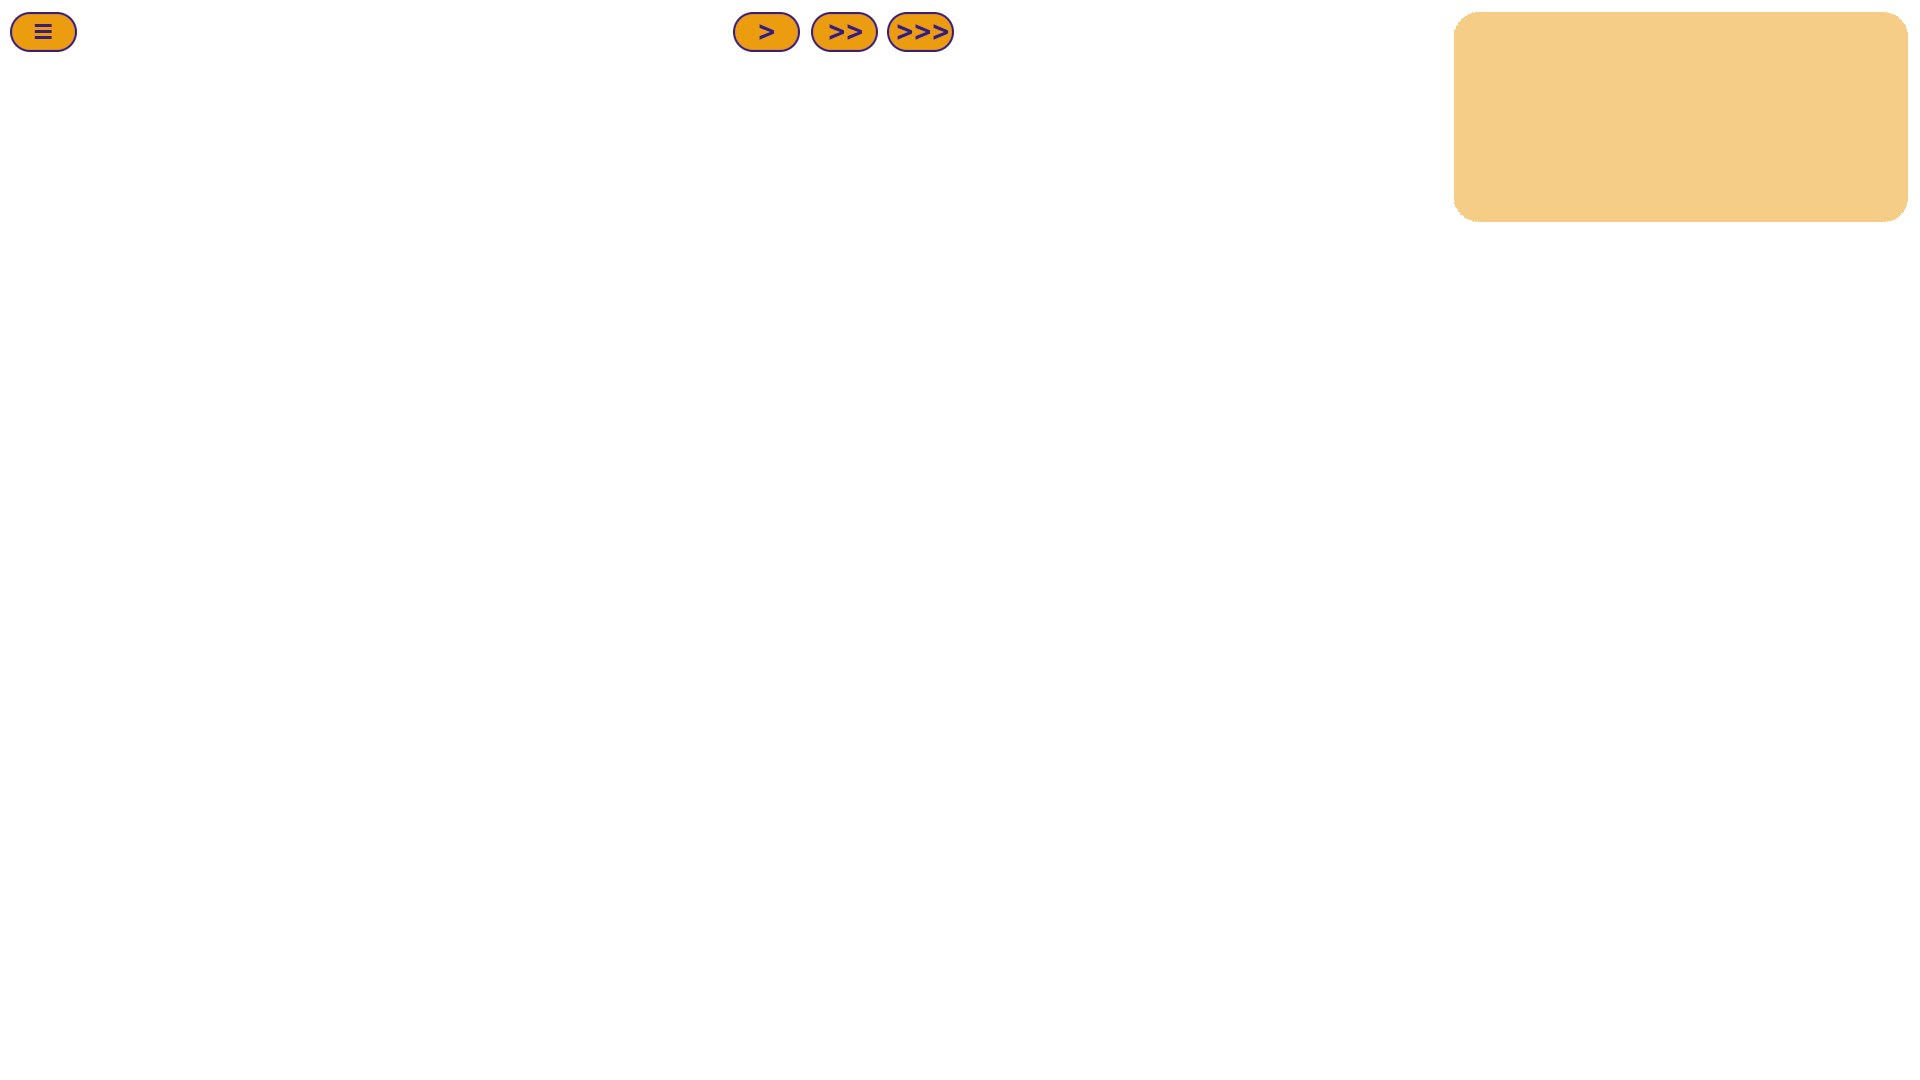
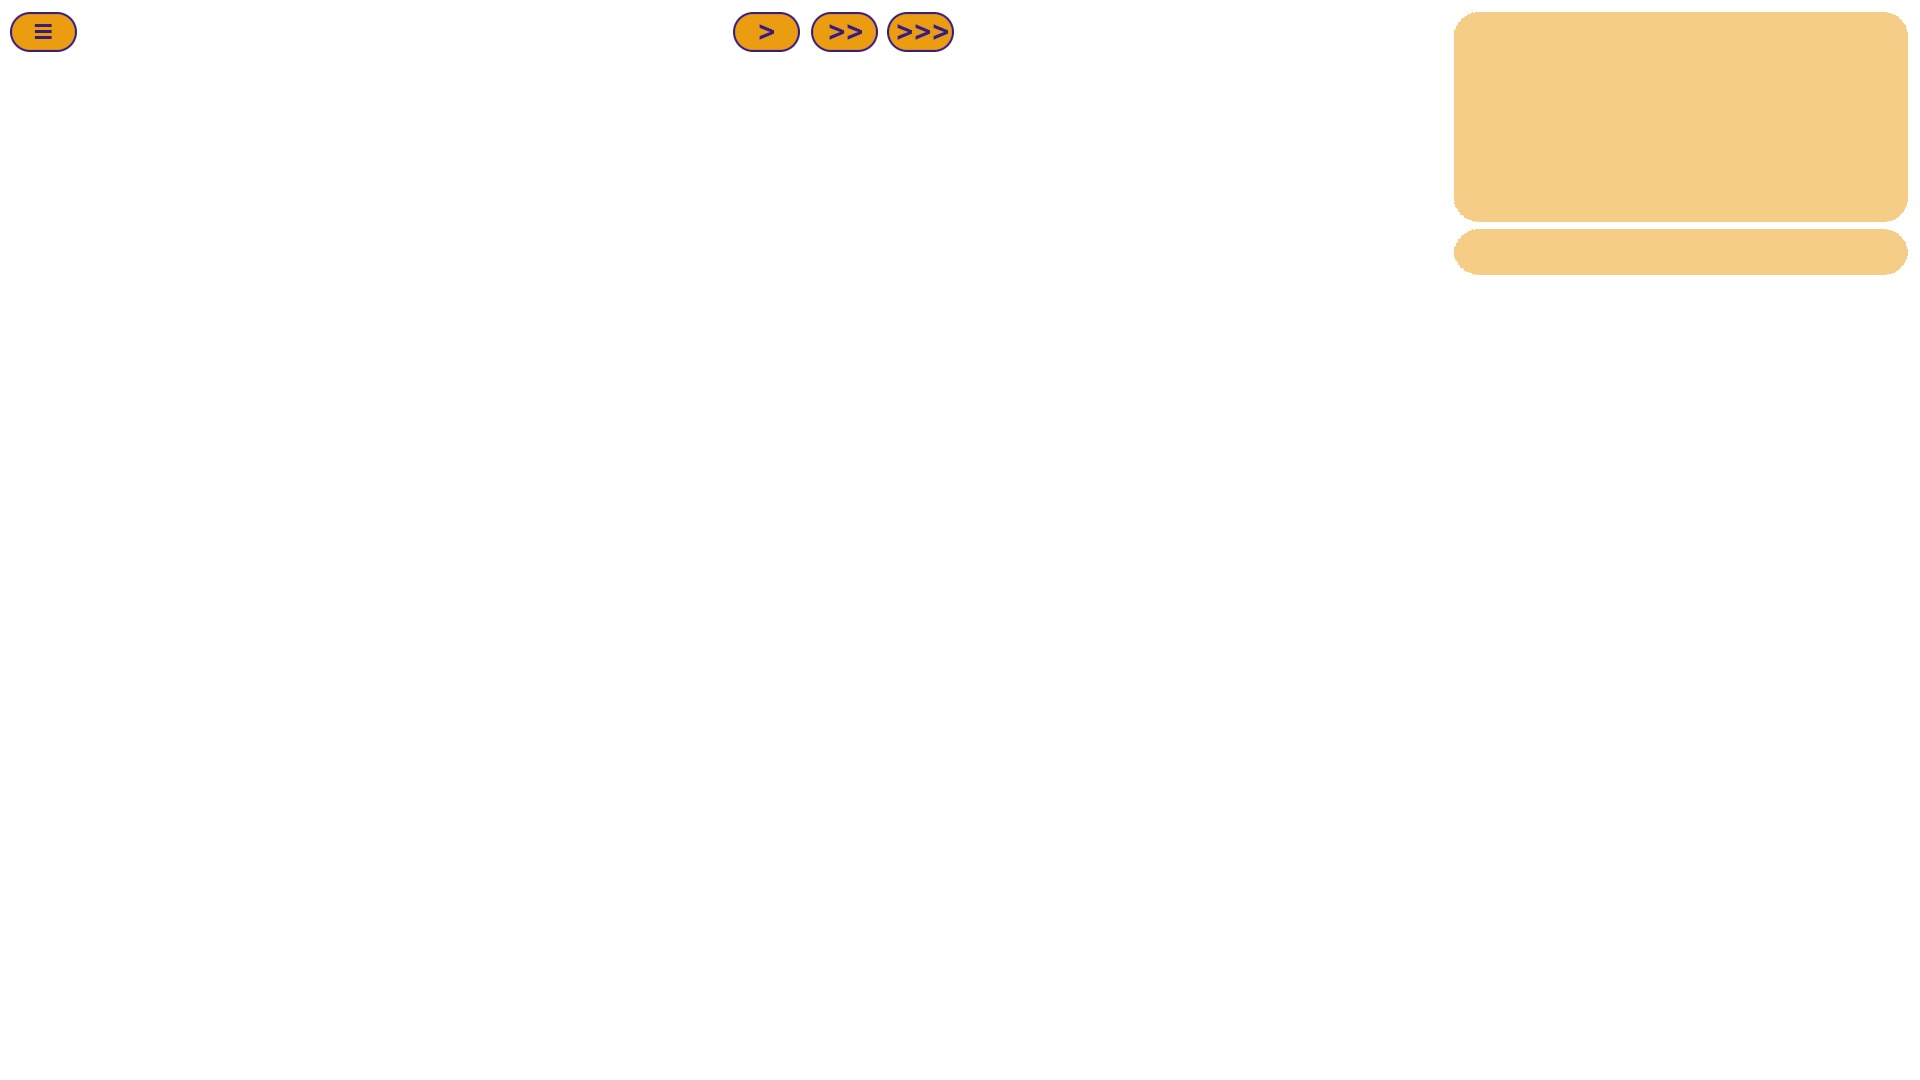
___

Changed region(s): [[0.75, 0.2139, 1.0, 0.275]]

diff --git a/Buyfeed.cpp b/Buyfeed.cpp
@@ -1,0 +1,80 @@
+#include "Buyfeed.hpp"
+
+#include "Player.hpp"
+
+#include <math.h>
+
+int buy_feed_count = 0;
+int buy_feed_pos = 0;
+struct buy_feed_element* buy_feed;
+
+map<string, int>	buy_feed_map;
+
+void buyfeed_init(struct bit_field* bf_rw) {
+	int size = players.size() * sizeof(struct buy_feed_element);
+	int size_in_bf = (int)ceilf(size / (float)sizeof(unsigned int));
+
+	buy_feed_pos = bit_field_add_bulk_zero(bf_rw, size_in_bf) + 1;
+
+	ui_value_as_config(bf_rw, "ingame_overlay", "buyfeed", 0, buy_feed_pos);
+}
+
+void buyfeed_add(struct bit_field* bf_rw, char buyer[50], int item_id) {
+	struct buy_feed_element* bf = (struct buy_feed_element*) &bf_rw->data[buy_feed_pos];
+
+	map<string, int>::iterator bfm_it = buy_feed_map.find(string(buyer));
+	if (bfm_it != buy_feed_map.end()) {
+		
+		for (int i = 0; i < 63; i++) {
+			if (bf[bfm_it->second].value[i] == '\0') {
+				if (item_id == 51) {
+					bf[bfm_it->second].value[i] = ']';
+				}
+				else if (item_id == 52) {
+					bf[bfm_it->second].value[i] = '`';
+				}
+				bf[bfm_it->second].value[i + 1] = '^';
+				break;
+			}
+		}
+		
+		if (bfm_it->second < buy_feed_count - 1) {
+			char bfm_tmp[64];
+			memcpy(&bfm_tmp, &bf[bfm_it->second], sizeof(struct buy_feed_element));
+
+			for (int i = bfm_it->second; i < buy_feed_count - 1; i++) {
+				memcpy(&bf[i], &bf[i + 1], sizeof(struct buy_feed_element));
+			}
+		
+			memcpy(&bf[buy_feed_count - 1], &bfm_tmp, sizeof(struct buy_feed_element));
+			
+			map<string, int>::iterator bfm_it2 = buy_feed_map.begin();
+			while (bfm_it2 != buy_feed_map.end()) {
+				if (bfm_it2->second > bfm_it->second) {
+					bfm_it2->second--;
+				}
+				bfm_it2++;
+			}
+			bfm_it->second = buy_feed_count - 1;
+		}
+	} else {
+		struct buy_feed_element bfe(buyer, item_id);
+		memcpy(&bf[buy_feed_count], &bfe, sizeof(struct buy_feed_element));
+
+		buy_feed_map.emplace(string(buyer), buy_feed_count);
+		buy_feed_count++;
+	}
+
+	int size = players.size() * sizeof(struct buy_feed_element);
+	int size_in_bf = (int)ceilf(size / (float)sizeof(unsigned int));
+
+	bit_field_invalidate_bulk(bf_rw, buy_feed_pos, size_in_bf);
+
+	ui_value_as_config(bf_rw, "ingame_overlay", "buyfeed", 1, buy_feed_count);
+}
+
+void buyfeed_reset(struct bit_field* bf_rw) {
+	bit_field_remove_bulk_from_segment(bf_rw, buy_feed_pos - 1);
+	buy_feed_count = 0;
+	buy_feed_pos = 0;
+}

diff --git a/Game.cpp b/Game.cpp
@@ -7,6 +7,7 @@
 #include "Grid.hpp"
 #include "Entity.hpp"
 #include "KillFeed.hpp"
+#include "Buyfeed.hpp"
 #include "Leaderboard.hpp"
 #include "Map.hpp"
 #include "Storm.hpp"
@@ -99,6 +100,8 @@ void game_start() {
 	killfeed_init(&bf_rw);
 
 	leaderboard_init(&bf_rw);
+
+	buyfeed_init(&bf_rw);
 
 	//spawn weapons
 	unsigned int weapon_count = max(100, (int)players.size());
@@ -199,21 +202,17 @@ void game_start() {
 	entities_upload(&bf_rw);
 
 	bit_field_update_device(&bf_rw, 0);
-
-	ui_set_active("ingame_overlay");
-	game_started = true;
 }
 
 void game_destroy() {
-	game_started = false;
-	ui_set_active("main_menu");
-
 	//unload map
 	asset_loader_unload_by_containing(&bf_assets, "./maps/" + ui_textfield_get_value(&bf_rw, "lobby", "selected_map") + "/");
+	map_models.clear();
+	bit_field_remove_bulk_from_segment(&bf_assets, map_models_position-1);
 
 	//unload grid
-	bit_field_remove_bulk_from_segment(&bf_rw, gd.position_in_bf);
 	bit_field_remove_bulk_from_segment(&bf_rw, gd.data_position_in_bf);
+	bit_field_remove_bulk_from_segment(&bf_rw, gd.position_in_bf);
 
 	//reset storm
 	storm_destroy();
@@ -229,6 +228,17 @@ void game_destroy() {
 	bit_field_remove_bulk_from_segment(&bf_rw, playerlist_pos - 1);
 	playerlist_count = 0;
 
+	//reset ui elements
+	char tmp = '\0';
+	top_kills = 0;
+	top_damage = 0;
+	ui_textfield_set_value(&bf_rw, "ingame_menu", "top_kills", &tmp);
+	ui_textfield_set_value(&bf_rw, "ingame_menu", "top_kills_nr", &tmp);
+	ui_textfield_set_value(&bf_rw, "ingame_menu", "top_damage", &tmp);
+	ui_textfield_set_value(&bf_rw, "ingame_menu", "top_damage_nr", &tmp);
+	ui_textfield_set_value(&bf_rw, "ingame_menu", "top_placement", &tmp);
+	ui_textfield_set_int(&bf_rw, "lobby", "playercount", 0);
+
 	//remove entities
 	entities.clear();
 	bit_field_remove_bulk_from_segment(&bf_rw, entities_position - 1);
@@ -238,6 +248,9 @@ void game_destroy() {
 
 	//leaderboard reset
 	leaderboard_reset(&bf_rw);
+
+	//buyfeed reset
+	buyfeed_reset(&bf_rw);
 
 	target_ticks_per_second = 30;
 }

diff --git a/Main.cpp b/Main.cpp
@@ -13,6 +13,7 @@
 #include "Entity.hpp"
 #include "TwitchIntegration.hpp"
 #include "KillFeed.hpp"
+#include "Buyfeed.hpp"
 #include "Playerlist.hpp"
 #include "Leaderboard.hpp"
 #include "Util.hpp"
@@ -323,6 +324,7 @@ int main(int argc, char** argv) {
 													has_inv_space--;
 													bits_shield[name_str] -= bits_per_shield;
 													bits_spent[name_str] += bits_per_shield;
+													buyfeed_add(&bf_rw, en->name, 51);
 													//printf("bought shield, spent %i\n", bits_spent[name_str]);
 													break;
 												}
@@ -342,6 +344,7 @@ int main(int argc, char** argv) {
 														has_inv_space--;
 														bits_bandage[name_str] -= bits_per_bandage;
 														bits_spent[name_str] += bits_per_bandage;
+														buyfeed_add(&bf_rw, en->name, 52);
 														//printf("bought bandage, spent %i\n", bits_spent[name_str]);
 														break;
 													}
@@ -686,11 +689,18 @@ int main(int argc, char** argv) {
 					}
 					players_it++;
 				}
+				if (ui_active == "unloading_game") {
+					game_started = false;
+					game_destroy();
+					ui_set_active("main_menu");
+				}
 			} else {
-				if (ui_active == "loading") {
+				if (ui_active == "loading_game") {
 					game_init();
 					game_start();
 					camera_get_crop(camera_crop);
+					ui_set_active("ingame_overlay");
+					game_started = true;
 				}
 				if (ui_active == "lobby" && irc_started) {
 					twitch_update_players(&bf_rw);

diff --git a/Buyfeed.hpp b/Buyfeed.hpp
@@ -1,0 +1,42 @@
+#ifndef BUYFEED_HPP
+#define BUYFEED_HPP
+
+#include "BitField.hpp"
+#include "UI.hpp"
+
+#include <map>
+
+struct buy_feed_element {
+    buy_feed_element(char s[50], int item_id) {
+        int cur_pos = 0;
+        value[cur_pos++] = '^';
+        for (int i = 0; i < 50; i++) {
+            if (s[i] == '\0') break;
+            value[cur_pos] = s[i];
+            cur_pos++;
+        }
+        value[cur_pos++] = '^';
+        if (item_id == 51) {
+            value[cur_pos++] = ']';
+        } else if (item_id == 52) {
+            value[cur_pos++] = '`';
+        }
+        value[cur_pos++] = '^';
+        for (int i = cur_pos; i < 64; i++) {
+            value[i] = '\0';
+        }
+    }
+    char value[64];
+};
+
+using namespace std;
+
+extern int buy_feed_count;
+extern int buy_feed_pos;
+extern struct buy_feed_element* buy_feed;
+
+void buyfeed_init(struct bit_field* bf_rw);
+void buyfeed_add(struct bit_field* bf_rw, char buyer[50], int item_id);
+void buyfeed_reset(struct bit_field* bf_rw);
+
+#endif

diff --git a/TwitchIntegration.cpp b/TwitchIntegration.cpp
@@ -7,6 +7,7 @@
 #include "Player.hpp"
 #include "Playerlist.hpp"
 #include <sstream>
+#include <time.h>
 
 string cache_dir = "";
 
@@ -18,9 +19,11 @@ intptr_t irc_process;
 void twitch_launch_irc(string twitch_name) {
     stringstream ss;
     string cache_dir_;
+    time_t ltime;
     do {
         ss.clear();
-        ss << rand();
+        time(&ltime);
+        ss << (long long)ltime;
         cache_dir_ = "cache\\" + ss.str();
     } while (dir_exists(cache_dir_));
     cache_dir = cache_dir_;
@@ -81,7 +84,9 @@ void twitch_update_players(struct bit_field* bf_rw) {
         if (i % 2 == 0) nnnn += "__________________";
         if (players.size() < players_max) {
             player_add(bf_rw, nnnn, PT_HOPE, UINT_MAX);
-
+            bits_spent.emplace(nnnn, 0);
+            bits_shield.emplace(nnnn, 200);
+            bits_bandage.emplace(nnnn, 200);
         }
     }
     */

diff --git a/Grid.hpp b/Grid.hpp
@@ -27,13 +27,8 @@ __host__ void grid_init(struct bit_field* bf, struct grid* out_grid, const vecto
     out_grid->center = center;
 
     unsigned int total_size_in_bf = (total_dim[2] * (total_dim[1] * total_dim[0]) + total_dim[1] * total_dim[1] + total_dim[0]);
-    //unsigned int total_size_in_mem = total_size_in_bf * sizeof(unsigned int);
-
-    //unsigned int* init_storage = (unsigned int*)malloc(total_size_in_mem);
-    //memset(init_storage, (unsigned int)0, total_size_in_mem);
-
+    
     out_grid->data_position_in_bf = bit_field_add_bulk_zero(bf, total_size_in_bf);
-    //out_grid->data_position_in_bf = bit_field_add_bulk(bf, init_storage, total_size_in_bf, total_size_in_mem);
     out_grid->position_in_bf = bit_field_add_bulk(bf, (unsigned int*)out_grid, SIZEOF_GRID_IN_BF, SIZEOF_GRID);
 }
 

diff --git a/Main.hpp b/Main.hpp
@@ -28,4 +28,7 @@ extern map<string, int>				bits_spent;
 extern map<string, int>				bits_shield;
 extern map<string, int>				bits_bandage;
 
+extern int top_kills;
+extern int top_damage;
+
 #endif
